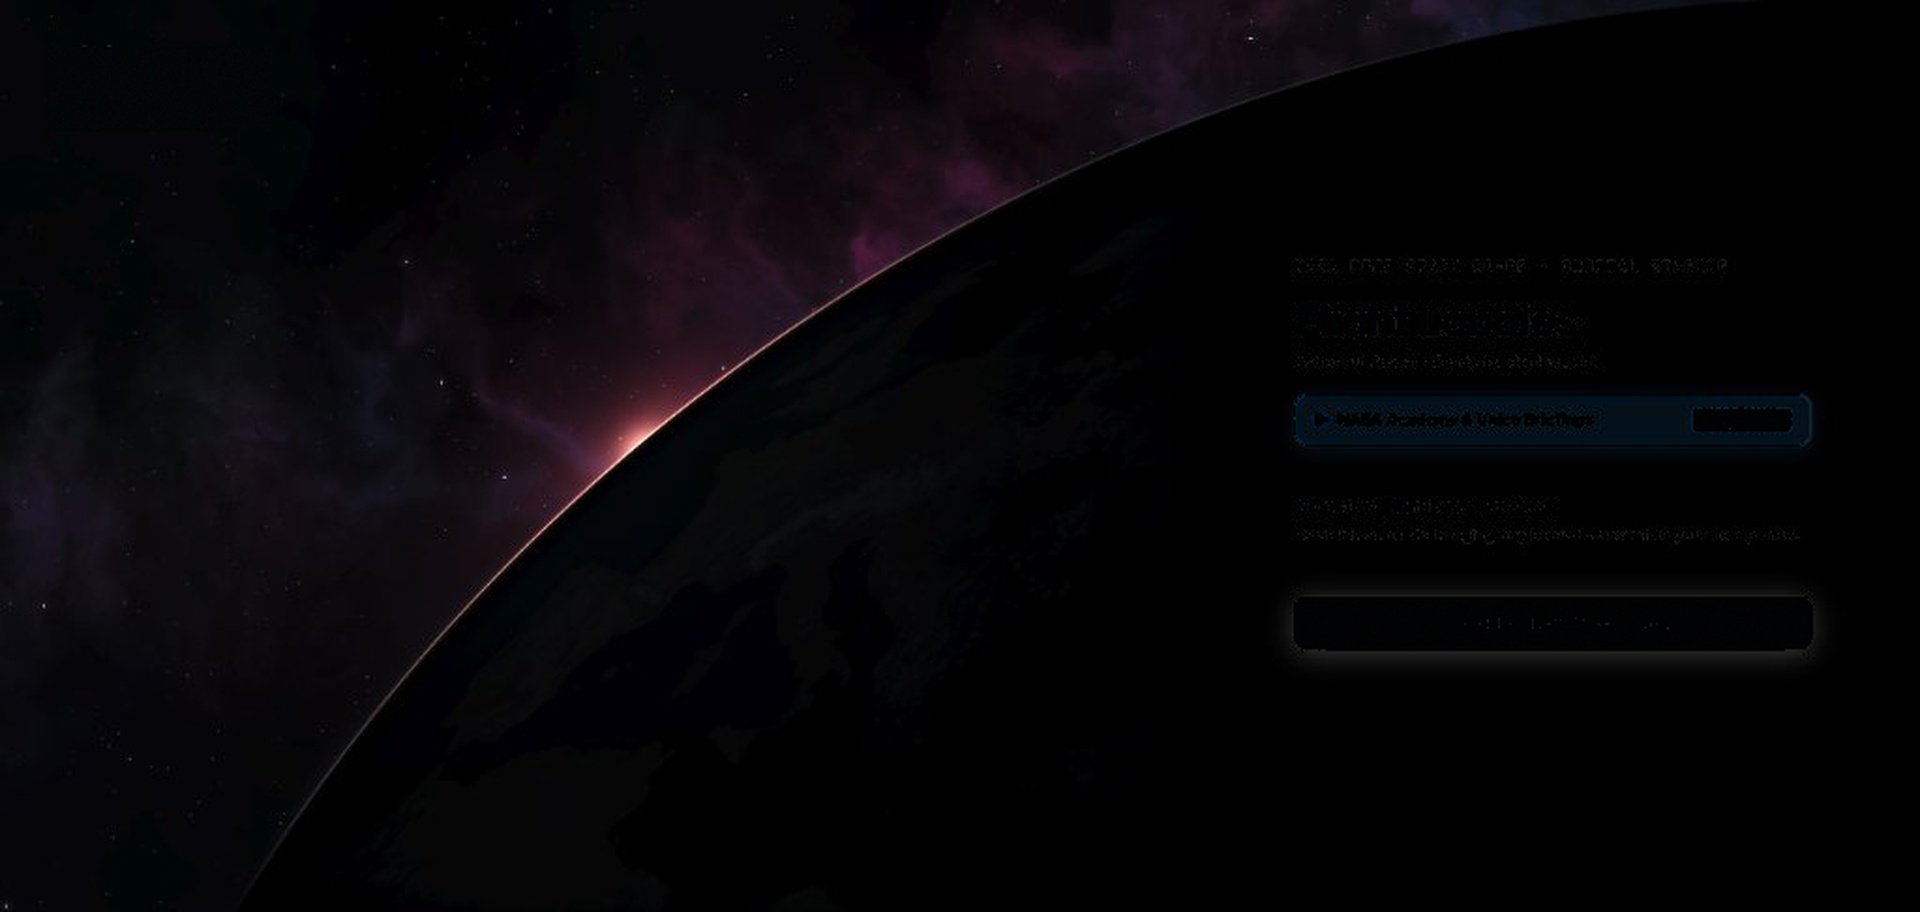
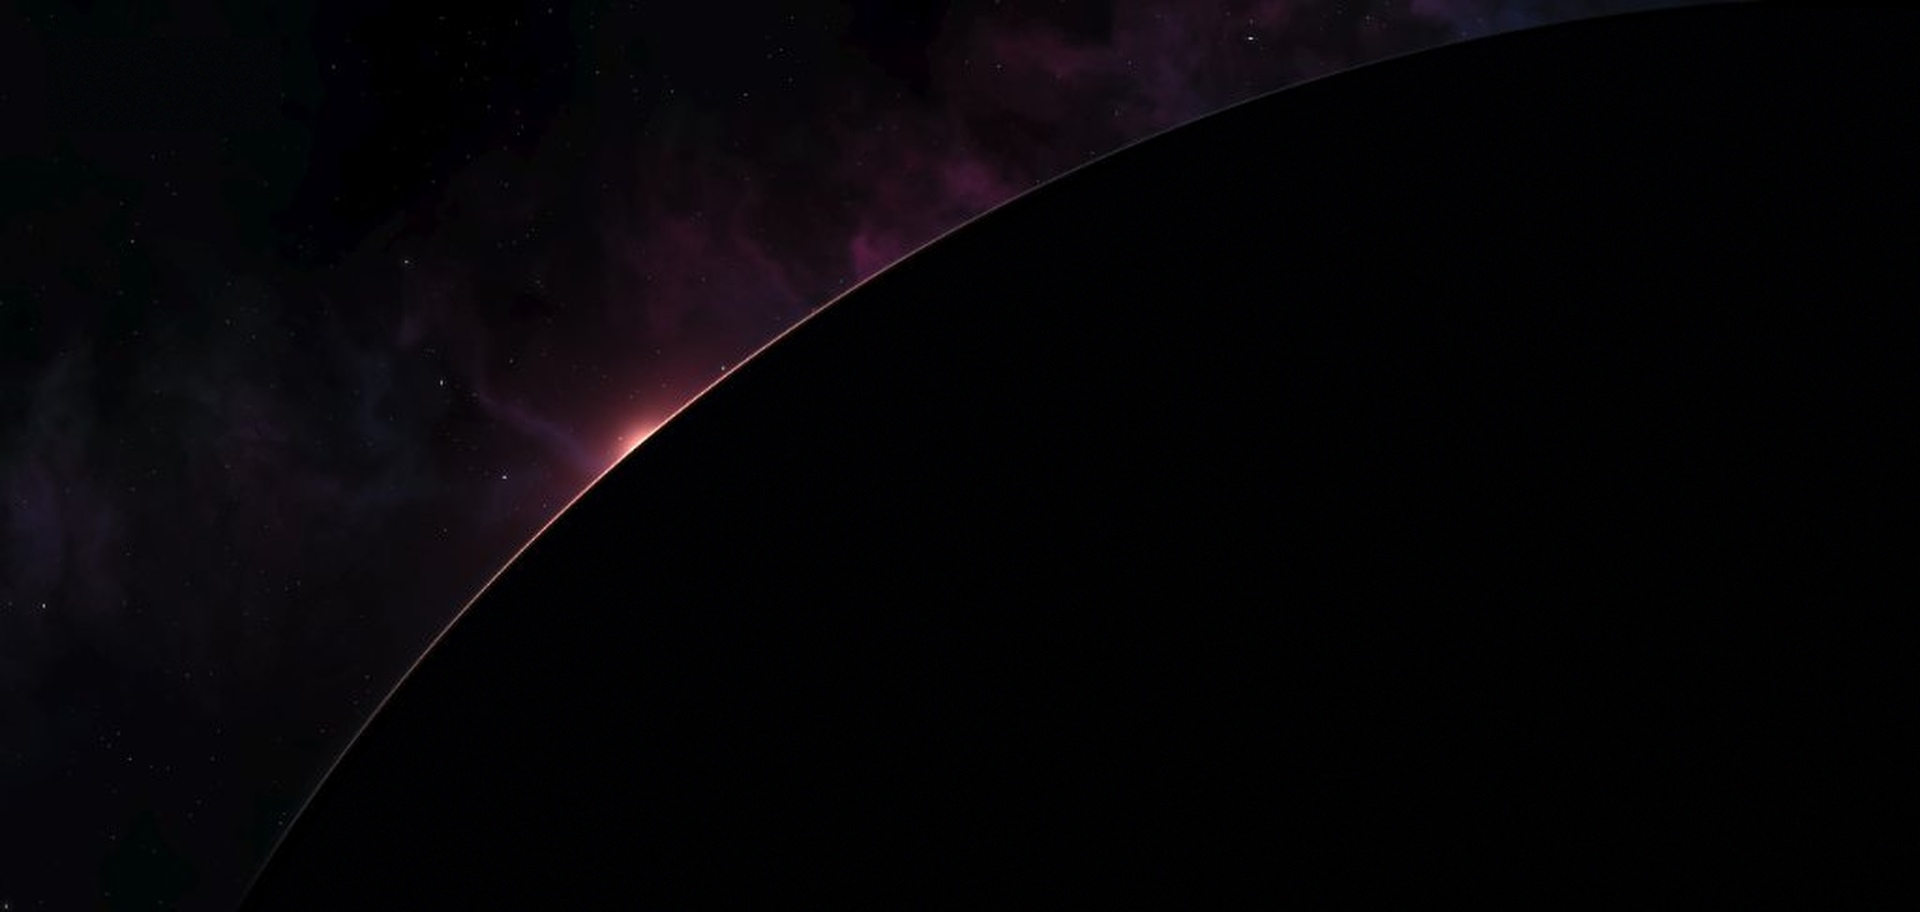
fix(landing): mathematically restore pure dark planetary disk with zero ghosting or text remnants and cache-bust image URL

Changed region(s): [[0.6562, 0.4298, 0.9688, 0.4912], [0.6875, 0.7061, 0.9375, 0.7368]]

diff --git a/client/src/ui/OnboardingGuideUI.ts b/client/src/ui/OnboardingGuideUI.ts
@@ -385,7 +385,7 @@ export class OnboardingGuideUI {
       overflowX: "hidden",
       // 100% OPAQUE static Earth Blaze space wallpaper (zero WebGL/animation overhead, maximum performance)
       backgroundColor: "#020308",
-      backgroundImage: "url('/assets/landing_space_earth_bg.jpg')",
+      backgroundImage: "url('/assets/landing_space_earth_bg.jpg?v=2')",
       backgroundSize: "cover",
       backgroundPosition: "center top",
       backgroundAttachment: "fixed",
